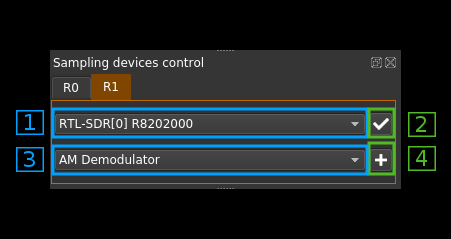
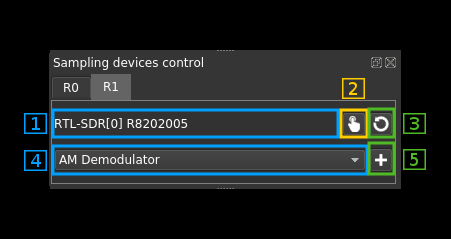
Updated documentation

Changed region(s): [[0.031, 0.2929, 0.9933, 0.7908], [0.8071, 0.6151, 0.8381, 0.7322]]

diff --git a/sdrbase/readme.md b/sdrbase/readme.md
@@ -146,19 +146,37 @@ This is where the sampling device for one device set is selected and the channel
 
 ![Sampling Devices control](../doc/img/MainWindow_SDControl.png)
 
-<h4>3.1. Sampling device selector</h4>
+<h4>3.1. Currently sampling device name</h4>
 
-Use this combo box to select one sampling device
+This label shows the human readable sampling device name
 
-<h4>3.2. Sampling device selection confirmation</h4>
+<h4>3.2. Open sampling device change dialog</h4>
 
-Use this push button to confirm the selection and change the sampling device
+Use this push button to open the device selection dialog to change the sampling device. This dialog will open:
 
-<h4>3.3. Channel selector</h4>
+![Main Window sampling devices dialog](../doc/img/MainWindow_SDDialog.png)
+
+<h5>3.2.1. Device selection combo</h5>
+
+Use this combo box to select the device. Only available devices will appear in the list. For devices having more than one channel (ex: LimeSDR) the channel number will appear next to the device sequence number inside the brackets. Ex: `LimeSDR[0:1] 0009060B00473419` designates the second Rx (Rx #1) of the first encountered LimeSDR which serial number is 0009060B00473419.
+
+<h5>3.2.2. Device selection confirmation</h5>
+
+Use the `OK` button to confirm your choice and exit the dialog
+
+<h5>3.2.3. Device selection cancellation</h5>
+
+Use the `Cancel` button to exit the dialog without any change
+
+<h4>3.3. Reload currently selected device</h4>
+
+This button activates a close/open sequence to recycle the device. It may be useful when the device is not streaming anymore or in an attempt to clear possible errors. Make sure the streaming is stopeed first.
+
+<h4>3.4. Channel selector</h4>
 
 Use this combo box to select a channel plugin to create a new channel
 
-<h4>3.4. Add a new channel</h4>
+<h4>3.5. Add a new channel</h4>
 
 Use this push button to add a new channel with the selected plugin
 
